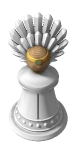
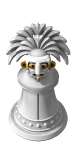
Mexica: the Pilli Mexica wears a mask after the box's, under a crown of curving feathers
The painted mask turns its face up to the viewer, with features larger
than life: a heavy brow, bulging gold eyes ringed in black, a broad nose,
an open mouth of shell teeth, gold ear spools and a chin pendant. The head
behind it is a painted hood, and two rows of feathers spring from the
mask's frame, curving outward and down like the plumes on the box. The
wooden head and circlet go.

diff --git a/games/mexica-ui/src/lib/board/pilliLight.ts b/games/mexica-ui/src/lib/board/pilliLight.ts
@@ -1,7 +1,8 @@
 // A Pilli Mexica, lit pixel by pixel by marching rays against its distance field. The board
 // fills the figure's outline with its owner's colour and lays this image over it: where the
 // figure is painted, the image holds only the light, as black that darkens the paint and white
-// that lights it; bare wood and gold show as themselves. So one image serves every player colour.
+// that lights it; gold, shell and obsidian show as themselves. So one image serves every player
+// colour.
 // Only scripts/render-looks.mjs runs this, through the /looks page; rerun it after changing the
 // figure.
 import {
@@ -31,28 +32,15 @@ import {
     softShadow
 } from './raymarch.js'
 
-const WOOD = { light: linear('#e2bf91'), dark: linear('#b98a5a'), late: linear('#93683f') }
-// Turned wood: growth rings round the upright axis the head was turned on, wandering a little,
-// so the top shows rings and the sides streaks, and the wood itself mottled; matte.
-const WOOD_GRAIN = { spacing: 0.55, wander: 1.4, mottle: 0.3, strength: 0.5 }
-const grainNoise = fractal(noise2(173), 3)
-
-function woodAt(p: Vec): Rgb {
-    const wander = (grainNoise(p[0] * 0.35 + p[1] * 0.35, p[2] * 0.12) - 0.5) * WOOD_GRAIN.wander
-    const radius = length2(p[0] - HEAD.at[0], p[1] - HEAD.at[1]) + wander
-    const ring = 0.5 + 0.5 * Math.sin((radius / WOOD_GRAIN.spacing) * 2 * Math.PI)
-    const tone = 0.6 + (grainNoise(p[0] * 0.8 + 5, p[2] * 0.8) - 0.5) * WOOD_GRAIN.mottle * 2
-    const body = mix(WOOD.dark, WOOD.light, clamp(tone))
-    return mix(body, WOOD.late, smoothstep(0.55, 0.95, ring) * WOOD_GRAIN.strength)
-}
 const GOLD = { light: linear('#f0c85a'), dark: linear('#8a5a1c') }
-const TURQUOISE = { light: linear('#4cc3b4'), dark: linear('#0f5e5a') }
+const SHELL = linear('#efe6d2')
+const OBSIDIAN = linear('#17140f')
 // The light on a painted face turned towards it shows the paint as it is.
 const FULL_LIGHT = 0.95
 
 // What a point of the figure is made of: paint, lightened (above 1) or darkened (below) by
-// what is painted there, bare wood, gold or turquoise.
-type Finish = { kind: 'paint' | 'wood' | 'gold' | 'turquoise'; tone: number }
+// what is painted there, gold, shell or obsidian.
+type Finish = { kind: 'paint' | 'gold' | 'shell' | 'obsidian'; tone: number }
 type Part = { distance: (p: Vec) => number; finish: (p: Vec) => Finish }
 type Figure = { scene: Scene; finish: (p: Vec) => Finish }
 
@@ -151,7 +139,6 @@ function shade(p: Vec, figure: Figure, toward: Vec): Sample[] {
     const glance = sheen * ROOM * (1 - smoothstep(0, -0.35, mirror[2]))
     const below = sheen * PAVING * smoothstep(0, -0.35, mirror[2]) * SATIN
     const finish = figure.finish(p)
-    if (finish.kind === 'wood') return opaque(scale(woodAt(p), light))
     if (finish.kind === 'gold') {
         const half = normalize(add(KEY, toward))
         const facing = clamp(dot(normal, half))
@@ -159,11 +146,11 @@ function shade(p: Vec, figure: Figure, toward: Vec): Sample[] {
         const shine = GOLD_SHINE * facing ** 24
         return opaque(add(scale(metal, 0.3 + 0.8 * light), [shine, shine * 0.9, shine * 0.6]))
     }
-    if (finish.kind === 'turquoise') {
+    if (finish.kind === 'shell') return opaque(scale(SHELL, 0.35 + 0.75 * light))
+    if (finish.kind === 'obsidian') {
         const half = normalize(add(KEY, toward))
-        const polish = 0.25 * clamp(dot(normal, half)) ** 30
-        const stone = mix(TURQUOISE.dark, TURQUOISE.light, 0.5 + 0.5 * sun)
-        return opaque(add(scale(stone, 0.35 + 0.75 * light), [polish, polish, polish]))
+        const polish = 0.3 * clamp(dot(normal, half)) ** 40
+        return opaque(add(scale(OBSIDIAN, 0.5 + light), [polish, polish, polish]))
     }
     // As a factor on the paint's sRGB colour; more than full light, and the sheen's
     // reflections, lighten it.
@@ -180,6 +167,7 @@ function shade(p: Vec, figure: Figure, toward: Vec): Sample[] {
 type Flat = [number, number]
 
 const length2 = (x: number, y: number) => Math.hypot(x, y)
+const sub = (a: Vec, b: Vec): Vec => [a[0] - b[0], a[1] - b[1], a[2] - b[2]]
 
 // Smooth union: the two shapes meet in a fillet `k` wide.
 function blend(a: number, b: number, k: number): number {
@@ -220,9 +208,7 @@ function frustum(p: Vec, z0: number, z1: number, r0: number, r1: number, round: 
 }
 
 const paint = (tone = 1): Finish => ({ kind: 'paint', tone })
-const WOODEN: Finish = { kind: 'wood', tone: 1 }
 const GILT: Finish = { kind: 'gold', tone: 1 }
-const STONE: Finish = { kind: 'turquoise', tone: 1 }
 
 // The robe flares like a pawn's down to a ring at the foot, a cape lies over the shoulders, and
 // the head stands clear of the cape on a short neck.
@@ -319,64 +305,183 @@ function head(p: Vec): number {
     return sphere(p, HEAD.at, HEAD.radius)
 }
 
-// The head and neck, turned from one piece of wood.
-const NECKED: Part = {
+// The head and neck, painted as a hood that runs into the mask's frame.
+const HOODED: Part = {
     distance: (p) => blend(head(p), capsule(p, NECK.from, HEAD.at, NECK.radius), 0.6),
-    finish: () => WOODEN
+    finish: () => paint(0.95)
 }
-// A gold circlet high on the brow: a flat strip following the curve of the head, its edges
-// rounded, with a medallion set with turquoise at the front.
-const CIRCLET = { rise: 1.9, height: 0.95, depth: 0.32, round: 0.14, medallion: 1.05, disc: 0.32 }
-const MEDALLION: Vec = [
-    0,
-    HEAD.at[1] + Math.sqrt(HEAD.radius ** 2 - CIRCLET.rise ** 2) + CIRCLET.depth + 0.12,
-    HEAD.at[2] + CIRCLET.rise
+
+// A mask after the one on the box, in the owner's paint, worn over the whole face with its
+// features larger than life: a squared face in a raised frame, a heavy brow, bulging gold eyes
+// ringed in black with obsidian pupils, a broad nose, an open mouth of shell teeth between
+// lips, gold spools at the ears and a pendant at the chin. Its plate is part of a sphere
+// `radius` round a point `sink` behind and `drop` below the head's centre, so it turns its face
+// up towards the viewer; its outline is `half` wide, narrowing to `chin`, from `bottom` to `top`
+// round the head's centre. The feathers spring from the frame's top.
+const MASK = {
+    radius: 7,
+    sink: 2.7,
+    drop: 1.6,
+    thick: 0.55,
+    half: 3.9,
+    chin: 3.0,
+    top: 2.7,
+    bottom: -3.4
+}
+const FRAME = { width: 0.75, raise: 0.32, down: -1.4 }
+const BROW = { z: 1.75, half: 3.1, radius: 0.62 }
+// `ring` is the black line round each eye, as a share of its size.
+const EYE = { x: 1.62, z: 0.72, width: 1.28, height: 0.72, pupil: 0.42, bulge: 0.3, ring: 0.22 }
+const NOSE = { top: 1.0, tip: -0.8, radius: 0.88 }
+const MOUTH = { z: -1.7, width: 2.05, height: 0.8, tooth: 0.6, lips: 0.3 }
+const SPOOL = { x: 4.25, z: 0.15, radius: 1.12, depth: 0.45 }
+
+const BLACK: Finish = { kind: 'obsidian', tone: 1 }
+const WHITE: Finish = { kind: 'shell', tone: 1 }
+
+// The point on the mask's face at (x, z) round the head's centre, `out` in front of it.
+const onMask = (x: number, z: number, out = 0): Vec => [
+    x,
+    HEAD.at[1] -
+        MASK.sink +
+        Math.sqrt(Math.max(0, (MASK.radius + out) ** 2 - x * x - (z + MASK.drop) ** 2)),
+    HEAD.at[2] + z
 ]
 
-function circletBand(p: Vec): number {
+// How far (x, z), round the head's centre, lies outside the mask's outline: a rounded square
+// above, narrowing to the chin below.
+function maskOutline(x: number, z: number): number {
+    const below = Math.max(0, -z) / -MASK.bottom
+    const half = MASK.half + (MASK.chin - MASK.half) * below ** 1.5
+    const corner = 1.3
+    const qx = Math.abs(x) - half + corner
+    const qz = (z > 0 ? z - MASK.top : -z + MASK.bottom) + corner
+    return Math.min(Math.max(qx, qz), 0) + length2(Math.max(qx, 0), Math.max(qz, 0)) - corner
+}
+
+function maskSpherical(p: Vec, out: number, thick: number): number {
+    const q: Vec = [
+        p[0] - HEAD.at[0],
+        p[1] - (HEAD.at[1] - MASK.sink),
+        p[2] - (HEAD.at[2] - MASK.drop)
+    ]
+    return Math.max(Math.abs(Math.hypot(q[0], q[1], q[2]) - MASK.radius - out) - thick / 2, -q[1])
+}
+
+function nose(p: Vec): number {
+    return capsule(
+        p,
+        onMask(0, NOSE.top, 0.2),
+        onMask(0, NOSE.tip, NOSE.radius * 0.75),
+        NOSE.radius
+    )
+}
+
+function mask(p: Vec): number {
+    const x = p[0] - HEAD.at[0]
     const z = p[2] - HEAD.at[2]
-    const onHead = Math.sqrt(Math.max(0, HEAD.radius ** 2 - z * z))
-    const qx = length2(p[0], p[1] - HEAD.at[1]) - onHead - CIRCLET.depth / 2 + 0.05
-    const qz = z - CIRCLET.rise
-    const ax = Math.abs(qx) - CIRCLET.depth / 2 + CIRCLET.round
-    const az = Math.abs(qz) - CIRCLET.height / 2 + CIRCLET.round
-    const box = Math.min(Math.max(ax, az), 0) + length2(Math.max(ax, 0), Math.max(az, 0))
-    return (box - CIRCLET.round) * 0.8
+    const edge = maskOutline(x, z)
+    const plate = Math.max(maskSpherical(p, 0, MASK.thick), edge)
+    const frame = Math.max(
+        maskSpherical(p, FRAME.raise / 2, MASK.thick + FRAME.raise),
+        edge,
+        -(edge + FRAME.width),
+        FRAME.down - z
+    )
+    const brow = capsule(
+        p,
+        onMask(-BROW.half, BROW.z, 0.15),
+        onMask(BROW.half, BROW.z, 0.15),
+        BROW.radius
+    )
+    const eyes = Math.min(
+        ...[-1, 1].map((side) =>
+            ellipsoid(sub(p, onMask(side * EYE.x, EYE.z, -0.1)), [
+                EYE.width,
+                EYE.bulge + 0.3,
+                EYE.height
+            ])
+        )
+    )
+    const lips = Math.min(
+        ...[MOUTH.height, -MOUTH.height].map((dz) =>
+            capsule(
+                p,
+                onMask(-MOUTH.width * 0.9, MOUTH.z + dz, 0.05),
+                onMask(MOUTH.width * 0.9, MOUTH.z + dz, 0.05),
+                MOUTH.lips
+            )
+        )
+    )
+    const spools = Math.min(
+        ...[-1, 1].map((side) => {
+            const at = onMask(side * SPOOL.x, SPOOL.z)
+            const across = Math.hypot(p[0] - at[0], p[2] - at[2]) - SPOOL.radius
+            const along = Math.abs(p[1] - at[1] - 0.1) - SPOOL.depth / 2
+            return (
+                Math.min(Math.max(across, along), 0) +
+                length2(Math.max(across, 0), Math.max(along, 0))
+            )
+        })
+    )
+    const chin = onMask(0, MASK.bottom + 0.3, 0.1)
+    const pendant = capsule(p, chin, add(chin, [0, 0.15, -1.0]), 0.45)
+    const features = Math.min(brow, nose(p), eyes, lips)
+    return Math.min(blend(Math.min(plate, frame), features, 0.3), spools, pendant)
 }
 
-// A disc `radius` across and `depth` thick, facing the viewer, its edge rounded.
-function medallion(p: Vec, radius: number, depth: number): number {
-    const along = Math.abs(p[1] - MEDALLION[1]) - depth / 2
-    const out = length2(p[0] - MEDALLION[0], p[2] - MEDALLION[2]) - radius
-    const round = Math.min(depth / 2, 0.2)
-    const qx = out + round
-    const qy = along + round
-    return Math.min(Math.max(qx, qy), 0) + length2(Math.max(qx, 0), Math.max(qy, 0)) - round
+function maskFinish(p: Vec): Finish {
+    const x = p[0] - HEAD.at[0]
+    const z = p[2] - HEAD.at[2]
+    if (z < MASK.bottom + 0.2) return GILT
+    const toSpool = Math.hypot(Math.abs(x) - SPOOL.x, z - SPOOL.z)
+    if (toSpool < SPOOL.radius + 0.15) return toSpool < SPOOL.radius * 0.45 ? BLACK : GILT
+    // The nose's sides stay paint, however close the eyes come.
+    if (nose(p) > 0.08) {
+        const inEye = Math.hypot((Math.abs(x) - EYE.x) / EYE.width, (z - EYE.z) / EYE.height)
+        if (inEye < 1) return Math.hypot(Math.abs(x) - EYE.x, z - EYE.z) < EYE.pupil ? BLACK : GILT
+        if (inEye < 1 + EYE.ring) return BLACK
+    }
+    if (Math.abs(x) < MOUTH.width * 0.85 && Math.abs(z - MOUTH.z) < MOUTH.height * 0.75) {
+        const tooth = (((x / MOUTH.tooth) % 1) + 1) % 1 > 0.16
+        return z > MOUTH.z - 0.05 && tooth ? WHITE : BLACK
+    }
+    if (maskOutline(x, z) > -FRAME.width - 0.05 && z > FRAME.down - 0.1) return paint(1.25)
+    return paint(1.08)
 }
 
-const CIRCLETED: Part = {
-    distance: (p) => Math.min(circletBand(p), medallion(p, CIRCLET.medallion, CIRCLET.disc)),
-    finish: (p) => (medallion(p, CIRCLET.medallion * 0.55, CIRCLET.disc + 0.1) < 0 ? STONE : GILT)
+// Two rows of feathers spring from the mask's frame and spread up and out, the front row
+// shorter and lighter, each feather curving outward and down towards its tip as the plumes
+// on the box do. A row's feathers spread from a point `below` its centre, as a share of its
+// height, and it is cut off below that point; `bend` is how far its feathers curve.
+type Fan = {
+    centre: Vec
+    radii: Vec
+    lean: number
+    spacing: number
+    tone: number
+    below: number
+    bend: number
 }
-
-// Two rows of feathers stand behind the head, leaning back, the front row shorter and lighter;
-// each row's feathers spread from a point below its centre.
-type Fan = { centre: Vec; radii: Vec; lean: number; spacing: number; tone: number }
+const CROWN_ROOT = HEAD.at[2] + 2.3 - 0.4
 const BACK_FAN: Fan = {
-    centre: [0, -3.4, 25],
-    radii: [7.8, 0.9, 6.4],
-    lean: 0.42,
-    spacing: 0.27,
-    tone: 1
+    centre: [0, -2.0, CROWN_ROOT + 0.15 * 5.4],
+    radii: [8.6, 0.9, 5.4],
+    lean: 0.35,
+    spacing: 0.3,
+    tone: 1,
+    below: 0.15,
+    bend: 0.55
 }
 const FRONT_FAN: Fan = {
-    centre: [0, -1.9, 23.3],
-    radii: [5.6, 0.8, 4.4],
-    lean: 0.25,
-    spacing: 0.32,
-    tone: 1.18
+    centre: [0, -0.4, CROWN_ROOT + 0.15 * 3.9],
+    radii: [6.2, 0.8, 3.9],
+    lean: 0.2,
+    spacing: 0.36,
+    tone: 1.18,
+    below: 0.15,
+    bend: 0.55
 }
-
 type FanPoint = { q: Vec; angle: number; along: number; reach: number; across: number }
 
 function fanPoint(fan: Fan, p: Vec): FanPoint {
@@ -384,7 +489,14 @@ function fanPoint(fan: Fan, p: Vec): FanPoint {
     const c = Math.cos(fan.lean)
     const s = Math.sin(fan.lean)
     const q: Vec = [x, y * c + z * s, -y * s + z * c]
-    const below = fan.radii[2] * 0.75
+    const below = fan.radii[2] * fan.below
+    // Each feather curves outward and down, more towards its tip: find the straight feather
+    // the point lies on by turning it back towards the upright by that much.
+    const r = length2(q[0], q[2] + below)
+    const turned =
+        Math.atan2(q[0], q[2] + below) - Math.tanh(q[0] / 0.6) * fan.bend * (r / fan.radii[0]) ** 2
+    q[0] = r * Math.sin(turned)
+    q[2] = r * Math.cos(turned) - below
     const angle = Math.atan2(q[0], q[2] + below)
     const along = length2(q[0], q[2] + below)
     const reach = length2(q[0] / fan.radii[0], q[2] / fan.radii[2])
@@ -399,9 +511,10 @@ function featherFan(fan: Fan, p: Vec): number {
     const swell = 0.55 + 0.9 * (1 - 2 * Math.abs(across))
     const tip = (1 - Math.cos(across * Math.PI * 2)) * 0.45
     const radii: Vec = [fan.radii[0] - tip, fan.radii[1] * swell, fan.radii[2] - tip]
-    const leaf = ellipsoid(q, radii) * 0.75
+    const leaf = ellipsoid(q, radii) * 0.6
     const parting = Math.min((Math.abs(across) - 0.43) * fan.spacing * along, (reach - 0.5) * 4)
-    return Math.max(leaf, parting)
+    const root = -(q[2] + fan.radii[2] * fan.below)
+    return Math.max(leaf, parting, root)
 }
 
 function fanFinish(fan: Fan, p: Vec): Finish {
@@ -413,10 +526,11 @@ function fanFinish(fan: Fan, p: Vec): Finish {
 
 // A row of feathers scaled up from its foot.
 function scaledFan(fan: Fan, by: number): Fan {
-    const foot = fan.centre[2] - 0.75 * fan.radii[2]
+    const share = fan.below
+    const foot = fan.centre[2] - share * fan.radii[2]
     return {
         ...fan,
-        centre: [fan.centre[0], fan.centre[1], foot + 0.75 * fan.radii[2] * by],
+        centre: [fan.centre[0], fan.centre[1], foot + share * fan.radii[2] * by],
         radii: scale(fan.radii, by)
     }
 }
@@ -424,16 +538,16 @@ function scaledFan(fan: Fan, by: number): Fan {
 // The figure with its headdress scaled by `headdress`.
 function figureWith(headdress: number): Figure {
     const parts: Part[] = [
+        { distance: mask, finish: maskFinish },
+        HOODED,
         { distance: body, finish: bodyFinish },
-        NECKED,
         ...[BACK_FAN, FRONT_FAN].map((row) => {
             const fan = scaledFan(row, headdress)
             return {
                 distance: (p: Vec) => featherFan(fan, p),
                 finish: (p: Vec) => fanFinish(fan, p)
             }
-        }),
-        CIRCLETED
+        })
     ]
     const nearestPart = (p: Vec): { part: Part; distance: number } => {
         let part = parts[0]

diff --git a/games/mexica-ui/src/lib/board/lookOutlines.ts b/games/mexica-ui/src/lib/board/lookOutlines.ts
@@ -1,6 +1,6 @@
 // Written by scripts/render-looks.mjs: each figure's outline, by the name of its look.
 export const LOOK_OUTLINES: Record<string, string> = {
-    pilli: 'M-0.23 -35.83L-1.62 -34.66L-1.51 -34.44L-1.51 -33.44L-1.4 -33.33L-1.4 -32.33L-1.28 -32.22L-1.28 -31.44L-1.45 -31.27L-1.62 -31.33L-1.95 -34.22L-2.12 -34.61L-3.23 -35.16L-3.9 -35.16L-4.62 -34.33L-5.06 -33.44L-4.62 -32.11L-4.4 -31.77L-4.06 -30.55L-3.84 -30.22L-3.9 -29.83L-4.17 -30.22L-4.51 -31.22L-4.95 -31.99L-4.95 -32.22L-5.56 -33.27L-6.45 -33.27L-6.67 -33.38L-7.23 -33.16L-7.51 -32.77L-7.62 -31.77L-7.73 -31.66L-7.73 -30.88L-5.84 -27.99L-5.51 -27.66L-5.56 -27.49L-7.4 -29.88L-8.12 -30.61L-9.34 -30.16L-9.62 -29.66L-9.51 -28.66L-9.28 -28.22L-9.17 -27.55L-6.73 -25.33L-9.01 -26.94L-9.23 -26.94L-9.34 -26.72L-10.06 -26.22L-10.06 -25.66L-9.84 -25.22L-8.62 -23.77L-8.12 -23.38L-6.73 -22.77L-6.9 -22.72L-8.12 -23.16L-8.23 -22.94L-8.73 -22.55L-8.73 -22.22L-8.12 -21.61L-7.01 -21.05L-5.51 -20.55L-5.9 -20.16L-6.28 -19.99L-6.23 -19.61L-5.45 -19.38L-4.78 -19.38L-3.95 -18.88L-4.17 -18.66L-4.12 -18.49L-3.62 -18.44L-5.34 -17.49L-6.28 -16.44L-6.84 -15.33L-6.84 -14.88L-6.95 -14.77L-6.84 -12.88L-6.73 -12.77L-6.73 -12.44L-6.28 -11.66L-5.28 -10.66L-5.4 -9.55L-5.51 -9.44L-5.62 -8.55L-5.84 -8.11L-5.95 -7.44L-6.4 -6.66L-7.12 -6.16L-7.95 -5.33L-8.62 -4.44L-9.17 -3.33L-9.73 -1.77L-9.84 0.23L-9.73 0.34L-9.73 0.89L-9.51 1.67L-8.95 2.78L-8.51 3.45L-6.56 5.28L-4.67 6.28L-3.01 6.84L-2.01 6.95L-1.9 7.06L-0.9 7.06L-0.78 7.17L0.88 7.17L0.99 7.06L1.88 7.06L1.99 6.95L2.99 6.84L4.1 6.51L6.55 5.28L7.66 4.39L8.49 3.45L9.16 2.45L9.6 1.34L9.72 0.45L9.83 0.34L9.83 -1.22L9.72 -1.33L9.6 -2.22L9.38 -2.55L9.16 -3.33L8.38 -4.77L6.99 -6.27L6.38 -6.66L6.05 -7.22L5.49 -9.11L5.38 -10.11L5.27 -10.22L5.27 -10.66L6.38 -11.77L6.72 -12.44L6.83 -13.88L6.94 -13.99L6.83 -15.33L6.05 -16.77L5.33 -17.49L3.6 -18.44L4.1 -18.49L4.16 -18.66L3.94 -18.88L4.77 -19.38L5.44 -19.38L6.22 -19.61L6.38 -19.77L6.22 -20.05L5.83 -20.22L5.55 -20.61L5.88 -20.61L6.22 -20.83L6.99 -21.05L8.1 -21.61L8.6 -21.99L8.72 -22.55L8.33 -22.83L8.1 -23.16L6.88 -22.72L6.72 -22.77L8.33 -23.49L8.72 -23.88L9.83 -25.22L10.05 -25.66L10.05 -26.22L9.1 -26.94L6.72 -25.33L8.99 -27.27L9.16 -27.55L9.49 -28.66L9.6 -29.66L9.38 -30.11L8.88 -30.38L8.55 -30.38L8.1 -30.61L6.94 -29.33L5.72 -27.66L5.49 -27.55L7.83 -30.99L7.72 -31.22L7.72 -31.77L7.6 -31.88L7.6 -32.44L7.38 -32.99L7.1 -33.27L6.55 -33.38L6.44 -33.27L5.55 -33.27L5.38 -33.11L4.27 -30.66L4.27 -30.44L4.05 -29.99L3.88 -29.94L3.94 -30.44L5.05 -33.44L4.27 -34.88L3.88 -35.16L3.22 -35.16L2.05 -34.55L1.6 -31.33L1.44 -31.27L1.27 -31.44L1.27 -32.11L1.38 -32.22L1.38 -33.22L1.49 -33.33L1.49 -34.33L1.6 -34.66L0.44 -35.72ZM-6.51 -25.11L-6.4 -25.11ZM-6.62 -22.66L-6.51 -22.66ZM6.49 -22.66L6.6 -22.66Z',
+    pilli: 'M-0.01 -32.49L-0.56 -31.72L-0.9 -31.72L-1.9 -32.16L-2.34 -32.16L-2.51 -31.88L-2.51 -31.55L-2.4 -31.44L-2.51 -30.99L-2.12 -30.38L-2.67 -30.94L-3.78 -31.16L-3.9 -31.27L-4.45 -31.27L-4.84 -30.99L-4.84 -30.66L-4.73 -30.55L-4.73 -30.11L-4.28 -29.77L-4.34 -29.72L-4.67 -29.94L-5.78 -29.94L-5.9 -29.83L-6.45 -29.83L-7.06 -29.55L-7.28 -29.33L-7.28 -28.88L-7.06 -28.44L-6.84 -28.33L-7.01 -28.16L-7.34 -28.16L-7.78 -27.94L-8.67 -27.38L-9.62 -26.33L-9.62 -25.99L-9.28 -25.66L-9.23 -25.38L-8.78 -25.61L-8.62 -25.55L-9.12 -25.27L-9.51 -24.88L-10.28 -23.66L-10.73 -22.55L-10.73 -21.77L-10.01 -21.49L-8.9 -22.72L-8.84 -22.66L-9.4 -21.99L-9.95 -20.99L-10.06 -18.77L-9.78 -18.27L-9.28 -18.55L-9.17 -18.99L-8.28 -20.55L-7.01 -21.83L-7.4 -20.55L-7.4 -19.44L-7.23 -19.27L-6.45 -19.72L-6.17 -20.22L-5.23 -21.16L-4.01 -21.83L-3.84 -21.77L-3.95 -21.22L-4.17 -20.88L-4.17 -19.66L-4.78 -19.72L-5.12 -19.61L-5.73 -19.11L-5.84 -18.11L-5.4 -17.44L-6.28 -16.44L-6.84 -15.33L-6.95 -14.11L-6.84 -13.99L-6.84 -12.88L-6.73 -12.77L-6.73 -12.44L-6.28 -11.66L-5.28 -10.66L-5.28 -10.22L-5.4 -10.11L-5.4 -9.55L-5.62 -8.99L-5.62 -8.55L-6.06 -7.22L-6.4 -6.66L-7.12 -6.16L-8.4 -4.77L-9.4 -2.77L-9.73 -1.77L-9.73 -1.22L-9.84 -1.11L-9.84 0.23L-9.73 0.34L-9.73 0.89L-9.51 1.67L-8.51 3.45L-7.01 4.95L-6.01 5.62L-4.67 6.28L-3.01 6.84L-2.01 6.95L-1.9 7.06L-0.9 7.06L-0.78 7.17L0.88 7.17L0.99 7.06L1.88 7.06L1.99 6.95L2.99 6.84L4.1 6.51L6.55 5.28L7.66 4.39L8.49 3.45L9.16 2.45L9.6 1.34L9.72 0.45L9.83 0.34L9.83 -1.22L9.72 -1.33L9.6 -2.22L9.38 -2.55L9.16 -3.33L8.38 -4.77L6.99 -6.27L6.38 -6.66L5.83 -7.77L5.72 -8.55L5.49 -9.11L5.49 -9.55L5.38 -9.66L5.38 -10.11L5.27 -10.22L5.27 -10.66L6.38 -11.77L6.72 -12.44L6.83 -13.88L6.94 -13.99L6.94 -14.88L6.49 -16.11L6.05 -16.77L5.38 -17.44L5.83 -18.11L5.83 -18.88L5.33 -19.49L4.88 -19.72L4.27 -19.77L4.16 -20.88L3.94 -21.22L3.83 -21.77L3.99 -21.83L5.22 -21.16L6.33 -19.94L7.1 -19.27L7.38 -19.33L7.38 -19.77L7.49 -19.88L7.38 -19.99L7.38 -20.66L7.05 -21.55L7.1 -21.72L7.66 -21.27L8.27 -20.55L9.16 -18.99L9.27 -18.55L9.77 -18.27L10.05 -18.66L9.94 -21.11L8.72 -22.77L8.77 -22.83L9.27 -22.33L9.99 -21.49L10.72 -21.77L10.72 -22.66L9.6 -24.77L9.1 -25.27L8.38 -25.66L8.55 -25.72L9.22 -25.38L9.27 -25.66L9.6 -25.99L9.49 -26.55L8.66 -27.38L7.99 -27.83L7.33 -28.16L6.99 -28.16L6.83 -28.33L7.05 -28.44L7.38 -29.11L6.99 -29.61L6.44 -29.83L5.88 -29.83L5.77 -29.94L4.77 -29.94L4.55 -29.83L4.83 -30.66L4.83 -30.99L4.55 -31.27L3.88 -31.27L3.77 -31.16L2.66 -30.94L2.1 -30.38L2.49 -30.99L2.49 -31.88L2.33 -32.16L1.88 -32.16L0.99 -31.72L0.66 -31.72L0.27 -31.99ZM1.94 -30.22L2.05 -30.22L1.88 -30.05ZM-1.95 -30.11L-1.84 -30.11ZM-1.73 -29.77L-1.62 -29.77ZM4.27 -29.77L4.38 -29.77ZM-8.51 -25.66L-8.4 -25.66ZM-8.4 -23.11L-8.28 -23.11Z',
     'pilli-flat':
-        'M-1.12 -9.82L-1.23 -9.7L-1.78 -9.7L-1.9 -9.59L-2.78 -9.48L-4.67 -8.7L-6.56 -7.37L-7.4 -6.54L-8.34 -5.26L-8.9 -5.26L-9.51 -4.98L-9.62 -4.65L-9.17 -3.87L-9.78 -3.7L-10.06 -3.43L-10.06 -3.2L-9.51 -2.65L-9.62 -1.76L-9.73 -1.65L-9.73 -0.98L-9.84 -0.87L-9.84 0.91L-9.73 1.02L-9.73 1.68L-9.62 1.8L-9.51 2.68L-8.51 5.02L-7.73 6.13L-6.12 7.74L-4.78 8.63L-3.01 9.41L-2.67 9.41L-1.67 9.74L-0.9 9.74L-0.78 9.85L0.77 9.85L0.88 9.74L1.66 9.74L1.77 9.63L2.66 9.52L4.99 8.52L6.88 7.07L7.83 6.02L8.49 5.02L9.16 3.68L9.72 1.8L9.72 1.13L9.83 1.02L9.83 -0.98L9.72 -1.09L9.72 -1.76L9.6 -1.87L9.49 -2.65L10.05 -3.2L10.05 -3.54L9.16 -3.87L9.6 -4.54L9.6 -4.76L9.33 -5.15L8.33 -5.26L7.49 -6.43L6.44 -7.48L4.66 -8.7L3.44 -9.26L1.88 -9.7L1.22 -9.7L1.1 -9.82ZM-5.62 -6.2L-5.51 -6.2ZM-8.17 -5.2L-8.06 -5.2ZM8.05 -5.2L8.16 -5.2Z'
+        'M-1.12 -9.82L-1.23 -9.7L-1.78 -9.7L-1.9 -9.59L-2.78 -9.48L-4.01 -8.93L-4.23 -8.93L-5.56 -8.15L-6.56 -7.37L-7.4 -6.54L-8.4 -5.2L-9.17 -3.65L-9.28 -3.09L-9.62 -2.65L-9.62 -2.43L-10.12 -2.15L-10.62 -1.65L-10.73 -1.09L-10.56 -0.93L-9.95 -0.87L-10.06 -0.09L-9.84 0.13L-9.84 0.91L-9.73 1.02L-9.62 2.24L-9.06 3.91L-8.51 5.02L-7.73 6.13L-6.12 7.74L-4.78 8.63L-3.01 9.41L-2.67 9.41L-1.67 9.74L-0.9 9.74L-0.78 9.85L0.77 9.85L0.88 9.74L2.22 9.63L3.88 9.07L5.66 8.07L7.16 6.8L8.49 5.02L9.16 3.68L9.72 1.8L9.83 0.24L10.05 -0.09L10.05 -0.65L9.94 -0.87L10.55 -0.93L10.72 -1.09L10.72 -1.43L10.1 -2.15L9.6 -2.43L9.6 -2.65L8.94 -3.98L8.94 -4.2L7.94 -5.87L7.27 -6.65L5.88 -7.93L3.99 -9.04L2.77 -9.48L2.44 -9.48L1.88 -9.7L1.22 -9.7L1.1 -9.82ZM-1.17 -5.32L-1.06 -5.32ZM-1.73 -5.2L-1.62 -5.2ZM0.05 -4.98L0.16 -4.98ZM-0.95 -2.65L-0.84 -2.65ZM-0.73 -0.2L-0.62 -0.2ZM-2.4 5.02L-2.28 5.02ZM2.27 5.02L2.38 5.02ZM0.94 5.24L1.05 5.24Z'
 }

diff --git a/games/mexica-ui/src/lib/board/pilliShape.ts b/games/mexica-ui/src/lib/board/pilliShape.ts
@@ -5,8 +5,8 @@ import { type Box, PILLI_SIZE, PILLI_WIDTH } from './view.js'
 // A Pilli Mexica as a painted wooden figure, feet at the origin: x to the right, y towards the
 // viewer, z up, in board units at full size: a noble in a robe flaring like a pawn's to a ring at
 // the foot, studs round the hem between raised lines, the cloak's opening down the front, a
-// cord along the cape's edge, a head of turned wood in a gold circlet set with turquoise, and
-// two rows of feathers behind.
+// cord along the cape's edge, a mask after the one on the box over a painted hood, and two rows
+// of feathers springing from the mask's frame.
 // How strongly the shine layer lies over the darkest paint.
 export const PILLI_SHINE = 0.3
 
